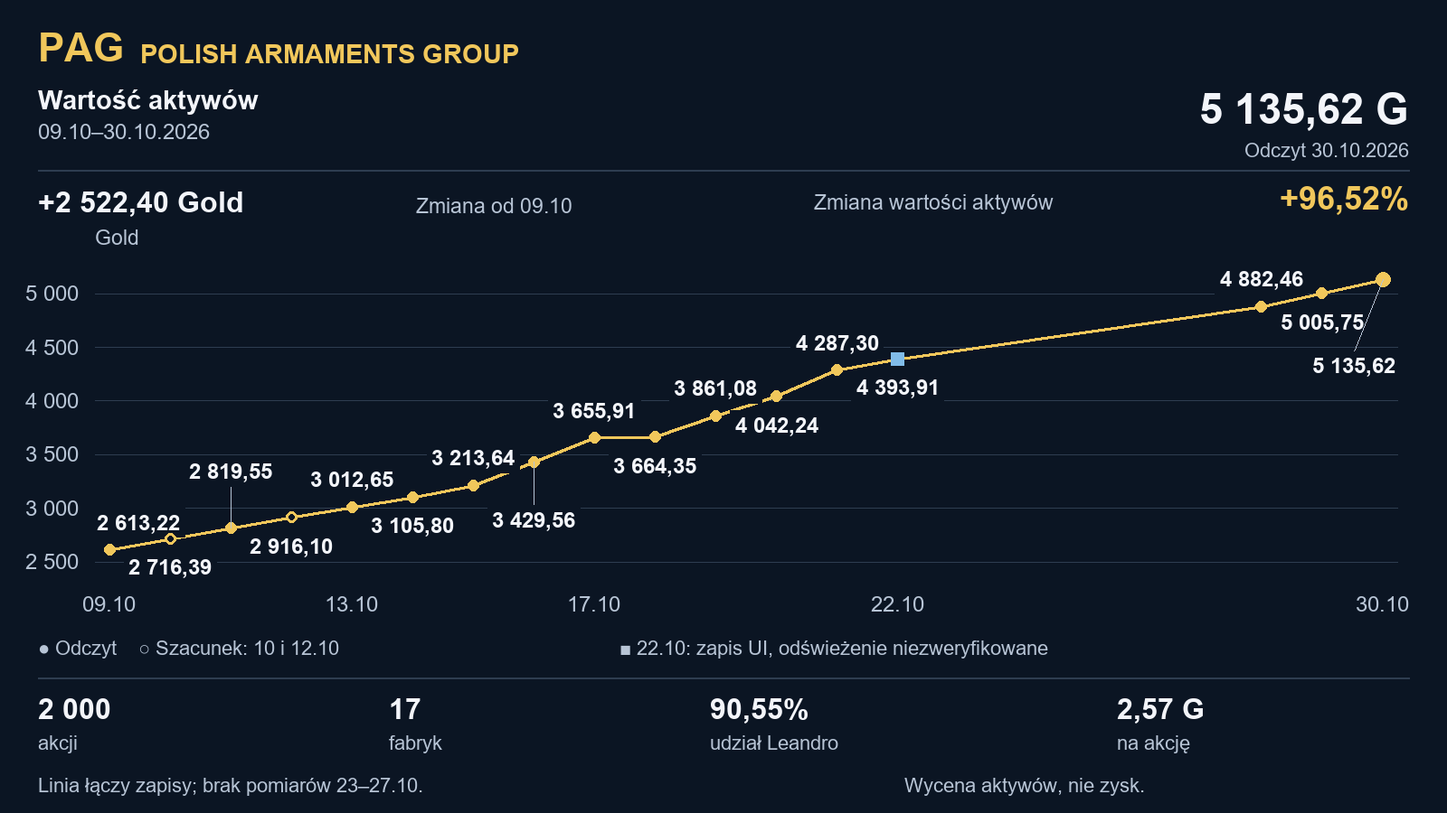
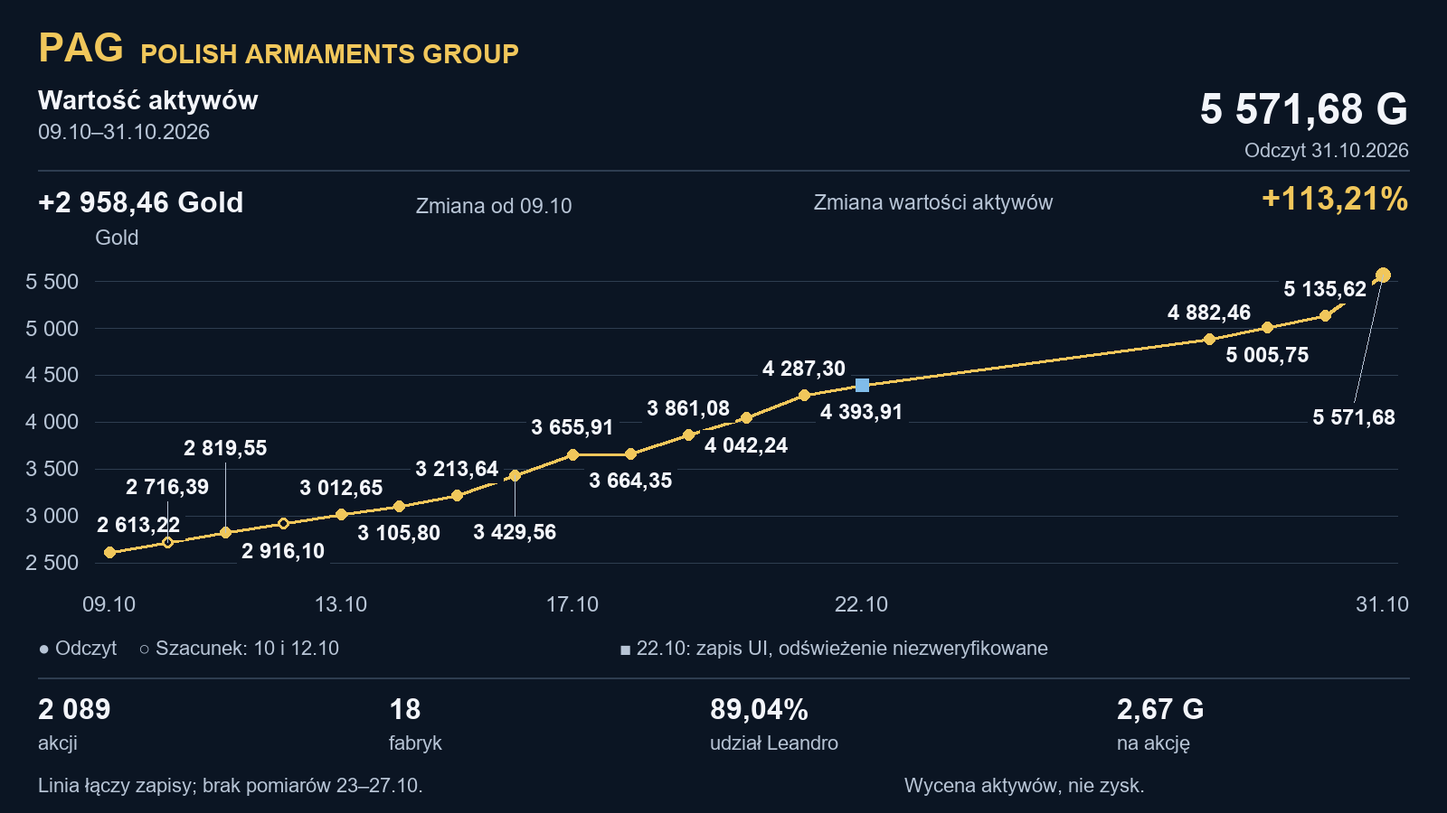
Update PAG chart with 31 October measurement

diff --git a/pag-chart.html b/pag-chart.html
@@ -1805,7 +1805,7 @@ html&gt;body{padding:0}&lt;/style&gt;
 &lt;script src=&quot;https://cdn.jsdelivr.net/npm/d3@7.9.0/dist/d3.min.js&quot;&gt;&lt;/script&gt;
 &lt;script&gt;
 (()=&gt;{
-const history={&quot;company&quot;: &quot;Polish Armaments Group&quot;, &quot;source_url&quot;: &quot;https://vexa.e-sim.org/stockCompany.html?id=45&quot;, &quot;timezone&quot;: &quot;Europe/Warsaw&quot;, &quot;definitions&quot;: {&quot;value_gold&quot;: &quot;Szacowana wartość spółki według Vexa; nie jest zyskiem ani kapitalizacją rynkową.&quot;, &quot;book_value_per_share_gold&quot;: &quot;value_gold / shares; obliczenie, nie cena transakcyjna.&quot;, &quot;factories&quot;: &quot;Ogólnie firm na stronie spółki.&quot;, &quot;leandro_percent&quot;: &quot;100 * leandro_shares / shares&quot;, &quot;status&quot;: &quot;confirmed_in_user_report: odczyt oznaczony jako potwierdzony w raporcie użytkownika; bez niezależnej weryfikacji. estimated_missing_day: szacunek brakującego dnia, nie pomiar. saved_ui_refresh_unverified: zapis UI, odświeżenie wyceny niezweryfikowane.&quot;}, &quot;observations&quot;: [{&quot;date&quot;: &quot;2026-10-09&quot;, &quot;observed_at&quot;: null, &quot;value_gold&quot;: 2613.22, &quot;shares&quot;: null, &quot;leandro_shares&quot;: null, &quot;leandro_percent_reported&quot;: null, &quot;factories&quot;: null, &quot;shareholders&quot;: null, &quot;reported_book_value_per_share_gold&quot;: null, &quot;status&quot;: &quot;confirmed_in_user_report&quot;, &quot;source&quot;: &quot;Raport graficzny przesłany przez użytkownika 2026-10-29&quot;, &quot;source_url&quot;: &quot;https://github.com/piotrzdrenka-droid/pag-chart/blob/main/pag-chart.png?raw=true&quot;, &quot;source_blob_sha&quot;: &quot;903d835cdb9e62c0f7de1f23d691339e15198607&quot;}, {&quot;date&quot;: &quot;2026-10-10&quot;, &quot;observed_at&quot;: null, &quot;value_gold&quot;: 2716.39, &quot;shares&quot;: null, &quot;leandro_shares&quot;: null, &quot;leandro_percent_reported&quot;: null, &quot;factories&quot;: null, &quot;shareholders&quot;: null, &quot;reported_book_value_per_share_gold&quot;: null, &quot;status&quot;: &quot;estimated_missing_day&quot;, &quot;source&quot;: &quot;Raport graficzny przesłany przez użytkownika 2026-10-29&quot;, &quot;source_url&quot;: &quot;https://github.com/piotrzdrenka-droid/pag-chart/blob/main/pag-chart.png?raw=true&quot;, &quot;source_blob_sha&quot;: &quot;903d835cdb9e62c0f7de1f23d691339e15198607&quot;}, {&quot;date&quot;: &quot;2026-10-11&quot;, &quot;observed_at&quot;: null, &quot;value_gold&quot;: 2819.55, &quot;shares&quot;: 1572, &quot;leandro_shares&quot;: 1490, &quot;leandro_percent_reported&quot;: 94.78, &quot;factories&quot;: 14, &quot;reported_book_value_per_share_gold&quot;: null, &quot;source&quot;: &quot;Dane historyczne przekazane przez użytkownika 2026-10-28&quot;, &quot;corroborating_sources&quot;: [&quot;Raport ze zdjęcia przekazany 2026-10-29&quot;], &quot;status&quot;: &quot;confirmed&quot;}, {&quot;date&quot;: &quot;2026-10-12&quot;, &quot;observed_at&quot;: null, &quot;value_gold&quot;: 2916.1, &quot;shares&quot;: null, &quot;leandro_shares&quot;: null, &quot;leandro_percent_reported&quot;: null, &quot;factories&quot;: null, &quot;shareholders&quot;: null, &quot;reported_book_value_per_share_gold&quot;: null, &quot;status&quot;: &quot;estimated_missing_day&quot;, &quot;source&quot;: &quot;Raport graficzny przesłany przez użytkownika 2026-10-29&quot;, &quot;source_url&quot;: &quot;https://github.com/piotrzdrenka-droid/pag-chart/blob/main/pag-chart.png?raw=true&quot;, &quot;source_blob_sha&quot;: &quot;903d835cdb9e62c0f7de1f23d691339e15198607&quot;}, {&quot;date&quot;: &quot;2026-10-13&quot;, &quot;observed_at&quot;: null, &quot;value_gold&quot;: 3012.65, &quot;shares&quot;: null, &quot;leandro_shares&quot;: null, &quot;leandro_percent_reported&quot;: null, &quot;factories&quot;: null, &quot;shareholders&quot;: null, &quot;reported_book_value_per_share_gold&quot;: null, &quot;status&quot;: &quot;confirmed_in_user_report&quot;, &quot;source&quot;: &quot;Raport graficzny przesłany przez użytkownika 2026-10-29&quot;, &quot;source_url&quot;: &quot;https://github.com/piotrzdrenka-droid/pag-chart/blob/main/pag-chart.png?raw=true&quot;, &quot;source_blob_sha&quot;: &quot;903d835cdb9e62c0f7de1f23d691339e15198607&quot;}, {&quot;date&quot;: &quot;2026-10-14&quot;, &quot;observed_at&quot;: null, &quot;value_gold&quot;: 3105.8, &quot;shares&quot;: null, &quot;leandro_shares&quot;: null, &quot;leandro_percent_reported&quot;: null, &quot;factories&quot;: null, &quot;shareholders&quot;: null, &quot;reported_book_value_per_share_gold&quot;: null, &quot;status&quot;: &quot;confirmed_in_user_report&quot;, &quot;source&quot;: &quot;Raport graficzny przesłany przez użytkownika 2026-10-29&quot;, &quot;source_url&quot;: &quot;https://github.com/piotrzdrenka-droid/pag-chart/blob/main/pag-chart.png?raw=true&quot;, &quot;source_blob_sha&quot;: &quot;903d835cdb9e62c0f7de1f23d691339e15198607&quot;}, {&quot;date&quot;: &quot;2026-10-15&quot;, &quot;observed_at&quot;: null, &quot;value_gold&quot;: 3213.64, &quot;shares&quot;: null, &quot;leandro_shares&quot;: null, &quot;leandro_percent_reported&quot;: null, &quot;factories&quot;: null, &quot;shareholders&quot;: null, &quot;reported_book_value_per_share_gold&quot;: null, &quot;status&quot;: &quot;confirmed_in_user_report&quot;, &quot;source&quot;: &quot;Raport graficzny przesłany przez użytkownika 2026-10-29&quot;, &quot;source_url&quot;: &quot;https://github.com/piotrzdrenka-droid/pag-chart/blob/main/pag-chart.png?raw=true&quot;, &quot;source_blob_sha&quot;: &quot;903d835cdb9e62c0f7de1f23d691339e15198607&quot;}, {&quot;date&quot;: &quot;2026-10-16&quot;, &quot;observed_at&quot;: null, &quot;value_gold&quot;: 3429.56, &quot;shares&quot;: null, &quot;leandro_shares&quot;: null, &quot;leandro_percent_reported&quot;: null, &quot;factories&quot;: null, &quot;shareholders&quot;: null, &quot;reported_book_value_per_share_gold&quot;: null, &quot;status&quot;: &quot;confirmed_in_user_report&quot;, &quot;source&quot;: &quot;Raport graficzny przesłany przez użytkownika 2026-10-29&quot;, &quot;source_url&quot;: &quot;https://github.com/piotrzdrenka-droid/pag-chart/blob/main/pag-chart.png?raw=true&quot;, &quot;source_blob_sha&quot;: &quot;903d835cdb9e62c0f7de1f23d691339e15198607&quot;}, {&quot;date&quot;: &quot;2026-10-17&quot;, &quot;observed_at&quot;: null, &quot;value_gold&quot;: 3655.91, &quot;shares&quot;: null, &quot;leandro_shares&quot;: null, &quot;leandro_percent_reported&quot;: null, &quot;factories&quot;: null, &quot;shareholders&quot;: null, &quot;reported_book_value_per_share_gold&quot;: null, &quot;status&quot;: &quot;confirmed_in_user_report&quot;, &quot;source&quot;: &quot;Raport graficzny przesłany przez użytkownika 2026-10-29&quot;, &quot;source_url&quot;: &quot;https://github.com/piotrzdrenka-droid/pag-chart/blob/main/pag-chart.png?raw=true&quot;, &quot;source_blob_sha&quot;: &quot;903d835cdb9e62c0f7de1f23d691339e15198607&quot;}, {&quot;date&quot;: &quot;2026-10-18&quot;, &quot;observed_at&quot;: null, &quot;value_gold&quot;: 3664.35, &quot;shares&quot;: null, &quot;leandro_shares&quot;: null, &quot;leandro_percent_reported&quot;: null, &quot;factories&quot;: null, &quot;shareholders&quot;: null, &quot;reported_book_value_per_share_gold&quot;: null, &quot;status&quot;: &quot;confirmed_in_user_report&quot;, &quot;source&quot;: &quot;Raport graficzny przesłany przez użytkownika 2026-10-29&quot;, &quot;source_url&quot;: &quot;https://github.com/piotrzdrenka-droid/pag-chart/blob/main/pag-chart.png?raw=true&quot;, &quot;source_blob_sha&quot;: &quot;903d835cdb9e62c0f7de1f23d691339e15198607&quot;}, {&quot;date&quot;: &quot;2026-10-19&quot;, &quot;observed_at&quot;: null, &quot;value_gold&quot;: 3861.08, &quot;shares&quot;: null, &quot;leandro_shares&quot;: null, &quot;leandro_percent_reported&quot;: null, &quot;factories&quot;: null, &quot;shareholders&quot;: null, &quot;reported_book_value_per_share_gold&quot;: null, &quot;status&quot;: &quot;confirmed_in_user_report&quot;, &quot;source&quot;: &quot;Raport graficzny przesłany przez użytkownika 2026-10-29&quot;, &quot;source_url&quot;: &quot;https://github.com/piotrzdrenka-droid/pag-chart/blob/main/pag-chart.png?raw=true&quot;, &quot;source_blob_sha&quot;: &quot;903d835cdb9e62c0f7de1f23d691339e15198607&quot;}, {&quot;date&quot;: &quot;2026-10-20&quot;, &quot;observed_at&quot;: null, &quot;value_gold&quot;: 4042.24, &quot;shares&quot;: null, &quot;leandro_shares&quot;: null, &quot;leandro_percent_reported&quot;: null, &quot;factories&quot;: null, &quot;shareholders&quot;: null, &quot;reported_book_value_per_share_gold&quot;: null, &quot;status&quot;: &quot;confirmed_in_user_report&quot;, &quot;source&quot;: &quot;Raport graficzny przesłany przez użytkownika 2026-10-29&quot;, &quot;source_url&quot;: &quot;https://github.com/piotrzdrenka-droid/pag-chart/blob/main/pag-chart.png?raw=true&quot;, &quot;source_blob_sha&quot;: &quot;903d835cdb9e62c0f7de1f23d691339e15198607&quot;}, {&quot;date&quot;: &quot;2026-10-21&quot;, &quot;observed_at&quot;: null, &quot;value_gold&quot;: 4287.3, &quot;shares&quot;: null, &quot;leandro_shares&quot;: null, &quot;leandro_percent_reported&quot;: null, &quot;factories&quot;: null, &quot;shareholders&quot;: null, &quot;reported_book_value_per_share_gold&quot;: null, &quot;status&quot;: &quot;confirmed_in_user_report&quot;, &quot;source&quot;: &quot;Raport graficzny przesłany przez użytkownika 2026-10-29&quot;, &quot;source_url&quot;: &quot;https://github.com/piotrzdrenka-droid/pag-chart/blob/main/pag-chart.png?raw=true&quot;, &quot;source_blob_sha&quot;: &quot;903d835cdb9e62c0f7de1f23d691339e15198607&quot;}, {&quot;date&quot;: &quot;2026-10-22&quot;, &quot;observed_at&quot;: null, &quot;value_gold&quot;: 4393.91, &quot;shares&quot;: 1888, &quot;leandro_shares&quot;: null, &quot;leandro_percent_reported&quot;: null, &quot;factories&quot;: 16, &quot;shareholders&quot;: 9, &quot;reported_book_value_per_share_gold&quot;: 2.33, &quot;status&quot;: &quot;saved_ui_refresh_unverified&quot;, &quot;source&quot;: &quot;Raport graficzny przesłany przez użytkownika 2026-10-29&quot;, &quot;source_url&quot;: &quot;https://github.com/piotrzdrenka-droid/pag-chart/blob/main/pag-chart.png?raw=true&quot;, &quot;source_blob_sha&quot;: &quot;903d835cdb9e62c0f7de1f23d691339e15198607&quot;}, {&quot;date&quot;: &quot;2026-10-28&quot;, &quot;observed_at&quot;: &quot;2026-10-28T18:58:00Z&quot;, &quot;value_gold&quot;: 4882.46, &quot;shares&quot;: 1908, &quot;leandro_shares&quot;: 1779, &quot;leandro_percent_reported&quot;: 93.24, &quot;factories&quot;: 17, &quot;reported_book_value_per_share_gold&quot;: 2.56, &quot;source&quot;: &quot;Odczyt widocznej strony Vexa bez logowania; czas zapisu pomiaru, nie czas wyceny aktywów&quot;, &quot;status&quot;: &quot;confirmed&quot;}, {&quot;date&quot;: &quot;2026-10-29&quot;, &quot;observed_at&quot;: &quot;2026-10-29T18:12:54Z&quot;, &quot;value_gold&quot;: 5005.75, &quot;shares&quot;: 1915, &quot;leandro_shares&quot;: 1786, &quot;leandro_percent_reported&quot;: 93.26, &quot;factories&quot;: 17, &quot;shareholders&quot;: 9, &quot;reported_book_value_per_share_gold&quot;: 2.61, &quot;status&quot;: &quot;confirmed&quot;, &quot;source&quot;: &quot;Odczyt publicznej strony Vexa po wybraniu Odśwież. Serwis potwierdził: Raport został odświeżony. Czas zapisu pomiaru, nie gwarantowany czas wyceny poszczególnych aktywów.&quot;, &quot;source_url&quot;: &quot;https://vexa.e-sim.org/stockCompany.html?id=45&quot;, &quot;report_refresh_confirmed&quot;: true}, {&quot;date&quot;: &quot;2026-10-30&quot;, &quot;observed_at&quot;: &quot;2026-10-30T19:01:41Z&quot;, &quot;value_gold&quot;: 5135.62, &quot;shares&quot;: 2000, &quot;leandro_shares&quot;: 1811, &quot;leandro_percent_reported&quot;: 90.55, &quot;factories&quot;: 17, &quot;shareholders&quot;: 10, &quot;reported_book_value_per_share_gold&quot;: 2.57, &quot;status&quot;: &quot;confirmed&quot;, &quot;source&quot;: &quot;Odczyt widocznej strony Vexa. Nie wywołano odświeżenia raportu; czas odczytu nie potwierdza czasu wyceny aktywów.&quot;, &quot;source_url&quot;: &quot;https://vexa.e-sim.org/stockCompany.html?id=45&quot;, &quot;report_refresh_confirmed&quot;: false}], &quot;events&quot;: [{&quot;date&quot;: &quot;2026-10-13&quot;, &quot;type&quot;: &quot;dividend&quot;, &quot;amount_gold&quot;: 200, &quot;source&quot;: &quot;Raport graficzny użytkownika&quot;, &quot;notes&quot;: &quot;Wypłata według raportu. Nie doliczono do wartości aktywów.&quot;}]};
+const history={&quot;company&quot;: &quot;Polish Armaments Group&quot;, &quot;source_url&quot;: &quot;https://vexa.e-sim.org/stockCompany.html?id=45&quot;, &quot;timezone&quot;: &quot;Europe/Warsaw&quot;, &quot;definitions&quot;: {&quot;value_gold&quot;: &quot;Szacowana wartość spółki według Vexa; nie jest zyskiem ani kapitalizacją rynkową.&quot;, &quot;book_value_per_share_gold&quot;: &quot;value_gold / shares; obliczenie, nie cena transakcyjna.&quot;, &quot;factories&quot;: &quot;Ogólnie firm na stronie spółki.&quot;, &quot;leandro_percent&quot;: &quot;100 * leandro_shares / shares&quot;, &quot;status&quot;: &quot;confirmed_in_user_report: odczyt oznaczony jako potwierdzony w raporcie użytkownika; bez niezależnej weryfikacji. estimated_missing_day: szacunek brakującego dnia, nie pomiar. saved_ui_refresh_unverified: zapis UI, odświeżenie wyceny niezweryfikowane.&quot;}, &quot;observations&quot;: [{&quot;date&quot;: &quot;2026-10-09&quot;, &quot;observed_at&quot;: null, &quot;value_gold&quot;: 2613.22, &quot;shares&quot;: null, &quot;leandro_shares&quot;: null, &quot;leandro_percent_reported&quot;: null, &quot;factories&quot;: null, &quot;shareholders&quot;: null, &quot;reported_book_value_per_share_gold&quot;: null, &quot;status&quot;: &quot;confirmed_in_user_report&quot;, &quot;source&quot;: &quot;Raport graficzny przesłany przez użytkownika 2026-10-29&quot;, &quot;source_url&quot;: &quot;https://github.com/piotrzdrenka-droid/pag-chart/blob/main/pag-chart.png?raw=true&quot;, &quot;source_blob_sha&quot;: &quot;903d835cdb9e62c0f7de1f23d691339e15198607&quot;}, {&quot;date&quot;: &quot;2026-10-10&quot;, &quot;observed_at&quot;: null, &quot;value_gold&quot;: 2716.39, &quot;shares&quot;: null, &quot;leandro_shares&quot;: null, &quot;leandro_percent_reported&quot;: null, &quot;factories&quot;: null, &quot;shareholders&quot;: null, &quot;reported_book_value_per_share_gold&quot;: null, &quot;status&quot;: &quot;estimated_missing_day&quot;, &quot;source&quot;: &quot;Raport graficzny przesłany przez użytkownika 2026-10-29&quot;, &quot;source_url&quot;: &quot;https://github.com/piotrzdrenka-droid/pag-chart/blob/main/pag-chart.png?raw=true&quot;, &quot;source_blob_sha&quot;: &quot;903d835cdb9e62c0f7de1f23d691339e15198607&quot;}, {&quot;date&quot;: &quot;2026-10-11&quot;, &quot;observed_at&quot;: null, &quot;value_gold&quot;: 2819.55, &quot;shares&quot;: 1572, &quot;leandro_shares&quot;: 1490, &quot;leandro_percent_reported&quot;: 94.78, &quot;factories&quot;: 14, &quot;reported_book_value_per_share_gold&quot;: null, &quot;source&quot;: &quot;Dane historyczne przekazane przez użytkownika 2026-10-28&quot;, &quot;corroborating_sources&quot;: [&quot;Raport ze zdjęcia przekazany 2026-10-29&quot;], &quot;status&quot;: &quot;confirmed&quot;}, {&quot;date&quot;: &quot;2026-10-12&quot;, &quot;observed_at&quot;: null, &quot;value_gold&quot;: 2916.1, &quot;shares&quot;: null, &quot;leandro_shares&quot;: null, &quot;leandro_percent_reported&quot;: null, &quot;factories&quot;: null, &quot;shareholders&quot;: null, &quot;reported_book_value_per_share_gold&quot;: null, &quot;status&quot;: &quot;estimated_missing_day&quot;, &quot;source&quot;: &quot;Raport graficzny przesłany przez użytkownika 2026-10-29&quot;, &quot;source_url&quot;: &quot;https://github.com/piotrzdrenka-droid/pag-chart/blob/main/pag-chart.png?raw=true&quot;, &quot;source_blob_sha&quot;: &quot;903d835cdb9e62c0f7de1f23d691339e15198607&quot;}, {&quot;date&quot;: &quot;2026-10-13&quot;, &quot;observed_at&quot;: null, &quot;value_gold&quot;: 3012.65, &quot;shares&quot;: null, &quot;leandro_shares&quot;: null, &quot;leandro_percent_reported&quot;: null, &quot;factories&quot;: null, &quot;shareholders&quot;: null, &quot;reported_book_value_per_share_gold&quot;: null, &quot;status&quot;: &quot;confirmed_in_user_report&quot;, &quot;source&quot;: &quot;Raport graficzny przesłany przez użytkownika 2026-10-29&quot;, &quot;source_url&quot;: &quot;https://github.com/piotrzdrenka-droid/pag-chart/blob/main/pag-chart.png?raw=true&quot;, &quot;source_blob_sha&quot;: &quot;903d835cdb9e62c0f7de1f23d691339e15198607&quot;}, {&quot;date&quot;: &quot;2026-10-14&quot;, &quot;observed_at&quot;: null, &quot;value_gold&quot;: 3105.8, &quot;shares&quot;: null, &quot;leandro_shares&quot;: null, &quot;leandro_percent_reported&quot;: null, &quot;factories&quot;: null, &quot;shareholders&quot;: null, &quot;reported_book_value_per_share_gold&quot;: null, &quot;status&quot;: &quot;confirmed_in_user_report&quot;, &quot;source&quot;: &quot;Raport graficzny przesłany przez użytkownika 2026-10-29&quot;, &quot;source_url&quot;: &quot;https://github.com/piotrzdrenka-droid/pag-chart/blob/main/pag-chart.png?raw=true&quot;, &quot;source_blob_sha&quot;: &quot;903d835cdb9e62c0f7de1f23d691339e15198607&quot;}, {&quot;date&quot;: &quot;2026-10-15&quot;, &quot;observed_at&quot;: null, &quot;value_gold&quot;: 3213.64, &quot;shares&quot;: null, &quot;leandro_shares&quot;: null, &quot;leandro_percent_reported&quot;: null, &quot;factories&quot;: null, &quot;shareholders&quot;: null, &quot;reported_book_value_per_share_gold&quot;: null, &quot;status&quot;: &quot;confirmed_in_user_report&quot;, &quot;source&quot;: &quot;Raport graficzny przesłany przez użytkownika 2026-10-29&quot;, &quot;source_url&quot;: &quot;https://github.com/piotrzdrenka-droid/pag-chart/blob/main/pag-chart.png?raw=true&quot;, &quot;source_blob_sha&quot;: &quot;903d835cdb9e62c0f7de1f23d691339e15198607&quot;}, {&quot;date&quot;: &quot;2026-10-16&quot;, &quot;observed_at&quot;: null, &quot;value_gold&quot;: 3429.56, &quot;shares&quot;: null, &quot;leandro_shares&quot;: null, &quot;leandro_percent_reported&quot;: null, &quot;factories&quot;: null, &quot;shareholders&quot;: null, &quot;reported_book_value_per_share_gold&quot;: null, &quot;status&quot;: &quot;confirmed_in_user_report&quot;, &quot;source&quot;: &quot;Raport graficzny przesłany przez użytkownika 2026-10-29&quot;, &quot;source_url&quot;: &quot;https://github.com/piotrzdrenka-droid/pag-chart/blob/main/pag-chart.png?raw=true&quot;, &quot;source_blob_sha&quot;: &quot;903d835cdb9e62c0f7de1f23d691339e15198607&quot;}, {&quot;date&quot;: &quot;2026-10-17&quot;, &quot;observed_at&quot;: null, &quot;value_gold&quot;: 3655.91, &quot;shares&quot;: null, &quot;leandro_shares&quot;: null, &quot;leandro_percent_reported&quot;: null, &quot;factories&quot;: null, &quot;shareholders&quot;: null, &quot;reported_book_value_per_share_gold&quot;: null, &quot;status&quot;: &quot;confirmed_in_user_report&quot;, &quot;source&quot;: &quot;Raport graficzny przesłany przez użytkownika 2026-10-29&quot;, &quot;source_url&quot;: &quot;https://github.com/piotrzdrenka-droid/pag-chart/blob/main/pag-chart.png?raw=true&quot;, &quot;source_blob_sha&quot;: &quot;903d835cdb9e62c0f7de1f23d691339e15198607&quot;}, {&quot;date&quot;: &quot;2026-10-18&quot;, &quot;observed_at&quot;: null, &quot;value_gold&quot;: 3664.35, &quot;shares&quot;: null, &quot;leandro_shares&quot;: null, &quot;leandro_percent_reported&quot;: null, &quot;factories&quot;: null, &quot;shareholders&quot;: null, &quot;reported_book_value_per_share_gold&quot;: null, &quot;status&quot;: &quot;confirmed_in_user_report&quot;, &quot;source&quot;: &quot;Raport graficzny przesłany przez użytkownika 2026-10-29&quot;, &quot;source_url&quot;: &quot;https://github.com/piotrzdrenka-droid/pag-chart/blob/main/pag-chart.png?raw=true&quot;, &quot;source_blob_sha&quot;: &quot;903d835cdb9e62c0f7de1f23d691339e15198607&quot;}, {&quot;date&quot;: &quot;2026-10-19&quot;, &quot;observed_at&quot;: null, &quot;value_gold&quot;: 3861.08, &quot;shares&quot;: null, &quot;leandro_shares&quot;: null, &quot;leandro_percent_reported&quot;: null, &quot;factories&quot;: null, &quot;shareholders&quot;: null, &quot;reported_book_value_per_share_gold&quot;: null, &quot;status&quot;: &quot;confirmed_in_user_report&quot;, &quot;source&quot;: &quot;Raport graficzny przesłany przez użytkownika 2026-10-29&quot;, &quot;source_url&quot;: &quot;https://github.com/piotrzdrenka-droid/pag-chart/blob/main/pag-chart.png?raw=true&quot;, &quot;source_blob_sha&quot;: &quot;903d835cdb9e62c0f7de1f23d691339e15198607&quot;}, {&quot;date&quot;: &quot;2026-10-20&quot;, &quot;observed_at&quot;: null, &quot;value_gold&quot;: 4042.24, &quot;shares&quot;: null, &quot;leandro_shares&quot;: null, &quot;leandro_percent_reported&quot;: null, &quot;factories&quot;: null, &quot;shareholders&quot;: null, &quot;reported_book_value_per_share_gold&quot;: null, &quot;status&quot;: &quot;confirmed_in_user_report&quot;, &quot;source&quot;: &quot;Raport graficzny przesłany przez użytkownika 2026-10-29&quot;, &quot;source_url&quot;: &quot;https://github.com/piotrzdrenka-droid/pag-chart/blob/main/pag-chart.png?raw=true&quot;, &quot;source_blob_sha&quot;: &quot;903d835cdb9e62c0f7de1f23d691339e15198607&quot;}, {&quot;date&quot;: &quot;2026-10-21&quot;, &quot;observed_at&quot;: null, &quot;value_gold&quot;: 4287.3, &quot;shares&quot;: null, &quot;leandro_shares&quot;: null, &quot;leandro_percent_reported&quot;: null, &quot;factories&quot;: null, &quot;shareholders&quot;: null, &quot;reported_book_value_per_share_gold&quot;: null, &quot;status&quot;: &quot;confirmed_in_user_report&quot;, &quot;source&quot;: &quot;Raport graficzny przesłany przez użytkownika 2026-10-29&quot;, &quot;source_url&quot;: &quot;https://github.com/piotrzdrenka-droid/pag-chart/blob/main/pag-chart.png?raw=true&quot;, &quot;source_blob_sha&quot;: &quot;903d835cdb9e62c0f7de1f23d691339e15198607&quot;}, {&quot;date&quot;: &quot;2026-10-22&quot;, &quot;observed_at&quot;: null, &quot;value_gold&quot;: 4393.91, &quot;shares&quot;: 1888, &quot;leandro_shares&quot;: null, &quot;leandro_percent_reported&quot;: null, &quot;factories&quot;: 16, &quot;shareholders&quot;: 9, &quot;reported_book_value_per_share_gold&quot;: 2.33, &quot;status&quot;: &quot;saved_ui_refresh_unverified&quot;, &quot;source&quot;: &quot;Raport graficzny przesłany przez użytkownika 2026-10-29&quot;, &quot;source_url&quot;: &quot;https://github.com/piotrzdrenka-droid/pag-chart/blob/main/pag-chart.png?raw=true&quot;, &quot;source_blob_sha&quot;: &quot;903d835cdb9e62c0f7de1f23d691339e15198607&quot;}, {&quot;date&quot;: &quot;2026-10-28&quot;, &quot;observed_at&quot;: &quot;2026-10-28T18:58:00Z&quot;, &quot;value_gold&quot;: 4882.46, &quot;shares&quot;: 1908, &quot;leandro_shares&quot;: 1779, &quot;leandro_percent_reported&quot;: 93.24, &quot;factories&quot;: 17, &quot;reported_book_value_per_share_gold&quot;: 2.56, &quot;source&quot;: &quot;Odczyt widocznej strony Vexa bez logowania; czas zapisu pomiaru, nie czas wyceny aktywów&quot;, &quot;status&quot;: &quot;confirmed&quot;}, {&quot;date&quot;: &quot;2026-10-29&quot;, &quot;observed_at&quot;: &quot;2026-10-29T18:12:54Z&quot;, &quot;value_gold&quot;: 5005.75, &quot;shares&quot;: 1915, &quot;leandro_shares&quot;: 1786, &quot;leandro_percent_reported&quot;: 93.26, &quot;factories&quot;: 17, &quot;shareholders&quot;: 9, &quot;reported_book_value_per_share_gold&quot;: 2.61, &quot;status&quot;: &quot;confirmed&quot;, &quot;source&quot;: &quot;Odczyt publicznej strony Vexa po wybraniu Odśwież. Serwis potwierdził: Raport został odświeżony. Czas zapisu pomiaru, nie gwarantowany czas wyceny poszczególnych aktywów.&quot;, &quot;source_url&quot;: &quot;https://vexa.e-sim.org/stockCompany.html?id=45&quot;, &quot;report_refresh_confirmed&quot;: true}, {&quot;date&quot;: &quot;2026-10-30&quot;, &quot;observed_at&quot;: &quot;2026-10-30T19:01:41Z&quot;, &quot;value_gold&quot;: 5135.62, &quot;shares&quot;: 2000, &quot;leandro_shares&quot;: 1811, &quot;leandro_percent_reported&quot;: 90.55, &quot;factories&quot;: 17, &quot;shareholders&quot;: 10, &quot;reported_book_value_per_share_gold&quot;: 2.57, &quot;status&quot;: &quot;confirmed&quot;, &quot;source&quot;: &quot;Odczyt widocznej strony Vexa. Nie wywołano odświeżenia raportu; czas odczytu nie potwierdza czasu wyceny aktywów.&quot;, &quot;source_url&quot;: &quot;https://vexa.e-sim.org/stockCompany.html?id=45&quot;, &quot;report_refresh_confirmed&quot;: false}, {&quot;date&quot;: &quot;2026-10-31&quot;, &quot;observed_at&quot;: &quot;2026-10-31T17:06:35Z&quot;, &quot;value_gold&quot;: 5571.68, &quot;shares&quot;: 2089, &quot;leandro_shares&quot;: 1860, &quot;leandro_percent_reported&quot;: 89.04, &quot;factories&quot;: 18, &quot;shareholders&quot;: 11, &quot;reported_book_value_per_share_gold&quot;: 2.67, &quot;status&quot;: &quot;confirmed&quot;, &quot;source&quot;: &quot;Odczyt widocznej strony Vexa; czas odczytu nie potwierdza czasu wyceny aktywów.&quot;, &quot;source_url&quot;: &quot;https://vexa.e-sim.org/stockCompany.html?id=45&quot;, &quot;report_refresh_confirmed&quot;: false}], &quot;events&quot;: [{&quot;date&quot;: &quot;2026-10-13&quot;, &quot;type&quot;: &quot;dividend&quot;, &quot;amount_gold&quot;: 200, &quot;source&quot;: &quot;Raport graficzny użytkownika&quot;, &quot;notes&quot;: &quot;Wypłata według raportu. Nie doliczono do wartości aktywów.&quot;}]};
 const root=document.getElementById(&#x27;pag-growth&#x27;),select=root.querySelector(&#x27;select&#x27;),box=root.querySelector(&#x27;#pag-plot&#x27;);
 const data=history.observations.map(d=&gt;({...d,x:new Date(d.date+&#x27;T12:00:00Z&#x27;),ownership:d.leandro_shares!=null&amp;&amp;d.shares&gt;0?100*d.leandro_shares/d.shares:null,perShare:d.value_gold!=null&amp;&amp;d.shares&gt;0?d.value_gold/d.shares:null}));
 const metrics={value_gold:[&#x27;Wartość spółki&#x27;,&#x27;Gold&#x27;,2],shares:[&#x27;Wyemitowane akcje&#x27;,&#x27;akcje&#x27;,0],leandro_shares:[&#x27;Akcje Leandro Daniels&#x27;,&#x27;akcje&#x27;,0],ownership:[&#x27;Udział Leandro&#x27;,&#x27;%&#x27;,2],perShare:[&#x27;Wartość aktywów na akcję&#x27;,&#x27;Gold/akcję&#x27;,4],factories:[&#x27;Fabryki&#x27;,&#x27;fabryki&#x27;,0]};

diff --git a/pag-growth.html b/pag-growth.html
@@ -13,7 +13,7 @@
 <script src="https://cdn.jsdelivr.net/npm/d3@7.9.0/dist/d3.min.js"></script>
 <script>
 (()=>{
-const history={"company": "Polish Armaments Group", "source_url": "https://vexa.e-sim.org/stockCompany.html?id=45", "timezone": "Europe/Warsaw", "definitions": {"value_gold": "Szacowana wartość spółki według Vexa; nie jest zyskiem ani kapitalizacją rynkową.", "book_value_per_share_gold": "value_gold / shares; obliczenie, nie cena transakcyjna.", "factories": "Ogólnie firm na stronie spółki.", "leandro_percent": "100 * leandro_shares / shares", "status": "confirmed_in_user_report: odczyt oznaczony jako potwierdzony w raporcie użytkownika; bez niezależnej weryfikacji. estimated_missing_day: szacunek brakującego dnia, nie pomiar. saved_ui_refresh_unverified: zapis UI, odświeżenie wyceny niezweryfikowane."}, "observations": [{"date": "2026-10-09", "observed_at": null, "value_gold": 2613.22, "shares": null, "leandro_shares": null, "leandro_percent_reported": null, "factories": null, "shareholders": null, "reported_book_value_per_share_gold": null, "status": "confirmed_in_user_report", "source": "Raport graficzny przesłany przez użytkownika 2026-10-29", "source_url": "https://github.com/piotrzdrenka-droid/pag-chart/blob/main/pag-chart.png?raw=true", "source_blob_sha": "903d835cdb9e62c0f7de1f23d691339e15198607"}, {"date": "2026-10-10", "observed_at": null, "value_gold": 2716.39, "shares": null, "leandro_shares": null, "leandro_percent_reported": null, "factories": null, "shareholders": null, "reported_book_value_per_share_gold": null, "status": "estimated_missing_day", "source": "Raport graficzny przesłany przez użytkownika 2026-10-29", "source_url": "https://github.com/piotrzdrenka-droid/pag-chart/blob/main/pag-chart.png?raw=true", "source_blob_sha": "903d835cdb9e62c0f7de1f23d691339e15198607"}, {"date": "2026-10-11", "observed_at": null, "value_gold": 2819.55, "shares": 1572, "leandro_shares": 1490, "leandro_percent_reported": 94.78, "factories": 14, "reported_book_value_per_share_gold": null, "source": "Dane historyczne przekazane przez użytkownika 2026-10-28", "corroborating_sources": ["Raport ze zdjęcia przekazany 2026-10-29"], "status": "confirmed"}, {"date": "2026-10-12", "observed_at": null, "value_gold": 2916.1, "shares": null, "leandro_shares": null, "leandro_percent_reported": null, "factories": null, "shareholders": null, "reported_book_value_per_share_gold": null, "status": "estimated_missing_day", "source": "Raport graficzny przesłany przez użytkownika 2026-10-29", "source_url": "https://github.com/piotrzdrenka-droid/pag-chart/blob/main/pag-chart.png?raw=true", "source_blob_sha": "903d835cdb9e62c0f7de1f23d691339e15198607"}, {"date": "2026-10-13", "observed_at": null, "value_gold": 3012.65, "shares": null, "leandro_shares": null, "leandro_percent_reported": null, "factories": null, "shareholders": null, "reported_book_value_per_share_gold": null, "status": "confirmed_in_user_report", "source": "Raport graficzny przesłany przez użytkownika 2026-10-29", "source_url": "https://github.com/piotrzdrenka-droid/pag-chart/blob/main/pag-chart.png?raw=true", "source_blob_sha": "903d835cdb9e62c0f7de1f23d691339e15198607"}, {"date": "2026-10-14", "observed_at": null, "value_gold": 3105.8, "shares": null, "leandro_shares": null, "leandro_percent_reported": null, "factories": null, "shareholders": null, "reported_book_value_per_share_gold": null, "status": "confirmed_in_user_report", "source": "Raport graficzny przesłany przez użytkownika 2026-10-29", "source_url": "https://github.com/piotrzdrenka-droid/pag-chart/blob/main/pag-chart.png?raw=true", "source_blob_sha": "903d835cdb9e62c0f7de1f23d691339e15198607"}, {"date": "2026-10-15", "observed_at": null, "value_gold": 3213.64, "shares": null, "leandro_shares": null, "leandro_percent_reported": null, "factories": null, "shareholders": null, "reported_book_value_per_share_gold": null, "status": "confirmed_in_user_report", "source": "Raport graficzny przesłany przez użytkownika 2026-10-29", "source_url": "https://github.com/piotrzdrenka-droid/pag-chart/blob/main/pag-chart.png?raw=true", "source_blob_sha": "903d835cdb9e62c0f7de1f23d691339e15198607"}, {"date": "2026-10-16", "observed_at": null, "value_gold": 3429.56, "shares": null, "leandro_shares": null, "leandro_percent_reported": null, "factories": null, "shareholders": null, "reported_book_value_per_share_gold": null, "status": "confirmed_in_user_report", "source": "Raport graficzny przesłany przez użytkownika 2026-10-29", "source_url": "https://github.com/piotrzdrenka-droid/pag-chart/blob/main/pag-chart.png?raw=true", "source_blob_sha": "903d835cdb9e62c0f7de1f23d691339e15198607"}, {"date": "2026-10-17", "observed_at": null, "value_gold": 3655.91, "shares": null, "leandro_shares": null, "leandro_percent_reported": null, "factories": null, "shareholders": null, "reported_book_value_per_share_gold": null, "status": "confirmed_in_user_report", "source": "Raport graficzny przesłany przez użytkownika 2026-10-29", "source_url": "https://github.com/piotrzdrenka-droid/pag-chart/blob/main/pag-chart.png?raw=true", "source_blob_sha": "903d835cdb9e62c0f7de1f23d691339e15198607"}, {"date": "2026-10-18", "observed_at": null, "value_gold": 3664.35, "shares": null, "leandro_shares": null, "leandro_percent_reported": null, "factories": null, "shareholders": null, "reported_book_value_per_share_gold": null, "status": "confirmed_in_user_report", "source": "Raport graficzny przesłany przez użytkownika 2026-10-29", "source_url": "https://github.com/piotrzdrenka-droid/pag-chart/blob/main/pag-chart.png?raw=true", "source_blob_sha": "903d835cdb9e62c0f7de1f23d691339e15198607"}, {"date": "2026-10-19", "observed_at": null, "value_gold": 3861.08, "shares": null, "leandro_shares": null, "leandro_percent_reported": null, "factories": null, "shareholders": null, "reported_book_value_per_share_gold": null, "status": "confirmed_in_user_report", "source": "Raport graficzny przesłany przez użytkownika 2026-10-29", "source_url": "https://github.com/piotrzdrenka-droid/pag-chart/blob/main/pag-chart.png?raw=true", "source_blob_sha": "903d835cdb9e62c0f7de1f23d691339e15198607"}, {"date": "2026-10-20", "observed_at": null, "value_gold": 4042.24, "shares": null, "leandro_shares": null, "leandro_percent_reported": null, "factories": null, "shareholders": null, "reported_book_value_per_share_gold": null, "status": "confirmed_in_user_report", "source": "Raport graficzny przesłany przez użytkownika 2026-10-29", "source_url": "https://github.com/piotrzdrenka-droid/pag-chart/blob/main/pag-chart.png?raw=true", "source_blob_sha": "903d835cdb9e62c0f7de1f23d691339e15198607"}, {"date": "2026-10-21", "observed_at": null, "value_gold": 4287.3, "shares": null, "leandro_shares": null, "leandro_percent_reported": null, "factories": null, "shareholders": null, "reported_book_value_per_share_gold": null, "status": "confirmed_in_user_report", "source": "Raport graficzny przesłany przez użytkownika 2026-10-29", "source_url": "https://github.com/piotrzdrenka-droid/pag-chart/blob/main/pag-chart.png?raw=true", "source_blob_sha": "903d835cdb9e62c0f7de1f23d691339e15198607"}, {"date": "2026-10-22", "observed_at": null, "value_gold": 4393.91, "shares": 1888, "leandro_shares": null, "leandro_percent_reported": null, "factories": 16, "shareholders": 9, "reported_book_value_per_share_gold": 2.33, "status": "saved_ui_refresh_unverified", "source": "Raport graficzny przesłany przez użytkownika 2026-10-29", "source_url": "https://github.com/piotrzdrenka-droid/pag-chart/blob/main/pag-chart.png?raw=true", "source_blob_sha": "903d835cdb9e62c0f7de1f23d691339e15198607"}, {"date": "2026-10-28", "observed_at": "2026-10-28T18:58:00Z", "value_gold": 4882.46, "shares": 1908, "leandro_shares": 1779, "leandro_percent_reported": 93.24, "factories": 17, "reported_book_value_per_share_gold": 2.56, "source": "Odczyt widocznej strony Vexa bez logowania; czas zapisu pomiaru, nie czas wyceny aktywów", "status": "confirmed"}, {"date": "2026-10-29", "observed_at": "2026-10-29T18:12:54Z", "value_gold": 5005.75, "shares": 1915, "leandro_shares": 1786, "leandro_percent_reported": 93.26, "factories": 17, "shareholders": 9, "reported_book_value_per_share_gold": 2.61, "status": "confirmed", "source": "Odczyt publicznej strony Vexa po wybraniu Odśwież. Serwis potwierdził: Raport został odświeżony. Czas zapisu pomiaru, nie gwarantowany czas wyceny poszczególnych aktywów.", "source_url": "https://vexa.e-sim.org/stockCompany.html?id=45", "report_refresh_confirmed": true}, {"date": "2026-10-30", "observed_at": "2026-10-30T19:01:41Z", "value_gold": 5135.62, "shares": 2000, "leandro_shares": 1811, "leandro_percent_reported": 90.55, "factories": 17, "shareholders": 10, "reported_book_value_per_share_gold": 2.57, "status": "confirmed", "source": "Odczyt widocznej strony Vexa. Nie wywołano odświeżenia raportu; czas odczytu nie potwierdza czasu wyceny aktywów.", "source_url": "https://vexa.e-sim.org/stockCompany.html?id=45", "report_refresh_confirmed": false}], "events": [{"date": "2026-10-13", "type": "dividend", "amount_gold": 200, "source": "Raport graficzny użytkownika", "notes": "Wypłata według raportu. Nie doliczono do wartości aktywów."}]};
+const history={"company": "Polish Armaments Group", "source_url": "https://vexa.e-sim.org/stockCompany.html?id=45", "timezone": "Europe/Warsaw", "definitions": {"value_gold": "Szacowana wartość spółki według Vexa; nie jest zyskiem ani kapitalizacją rynkową.", "book_value_per_share_gold": "value_gold / shares; obliczenie, nie cena transakcyjna.", "factories": "Ogólnie firm na stronie spółki.", "leandro_percent": "100 * leandro_shares / shares", "status": "confirmed_in_user_report: odczyt oznaczony jako potwierdzony w raporcie użytkownika; bez niezależnej weryfikacji. estimated_missing_day: szacunek brakującego dnia, nie pomiar. saved_ui_refresh_unverified: zapis UI, odświeżenie wyceny niezweryfikowane."}, "observations": [{"date": "2026-10-09", "observed_at": null, "value_gold": 2613.22, "shares": null, "leandro_shares": null, "leandro_percent_reported": null, "factories": null, "shareholders": null, "reported_book_value_per_share_gold": null, "status": "confirmed_in_user_report", "source": "Raport graficzny przesłany przez użytkownika 2026-10-29", "source_url": "https://github.com/piotrzdrenka-droid/pag-chart/blob/main/pag-chart.png?raw=true", "source_blob_sha": "903d835cdb9e62c0f7de1f23d691339e15198607"}, {"date": "2026-10-10", "observed_at": null, "value_gold": 2716.39, "shares": null, "leandro_shares": null, "leandro_percent_reported": null, "factories": null, "shareholders": null, "reported_book_value_per_share_gold": null, "status": "estimated_missing_day", "source": "Raport graficzny przesłany przez użytkownika 2026-10-29", "source_url": "https://github.com/piotrzdrenka-droid/pag-chart/blob/main/pag-chart.png?raw=true", "source_blob_sha": "903d835cdb9e62c0f7de1f23d691339e15198607"}, {"date": "2026-10-11", "observed_at": null, "value_gold": 2819.55, "shares": 1572, "leandro_shares": 1490, "leandro_percent_reported": 94.78, "factories": 14, "reported_book_value_per_share_gold": null, "source": "Dane historyczne przekazane przez użytkownika 2026-10-28", "corroborating_sources": ["Raport ze zdjęcia przekazany 2026-10-29"], "status": "confirmed"}, {"date": "2026-10-12", "observed_at": null, "value_gold": 2916.1, "shares": null, "leandro_shares": null, "leandro_percent_reported": null, "factories": null, "shareholders": null, "reported_book_value_per_share_gold": null, "status": "estimated_missing_day", "source": "Raport graficzny przesłany przez użytkownika 2026-10-29", "source_url": "https://github.com/piotrzdrenka-droid/pag-chart/blob/main/pag-chart.png?raw=true", "source_blob_sha": "903d835cdb9e62c0f7de1f23d691339e15198607"}, {"date": "2026-10-13", "observed_at": null, "value_gold": 3012.65, "shares": null, "leandro_shares": null, "leandro_percent_reported": null, "factories": null, "shareholders": null, "reported_book_value_per_share_gold": null, "status": "confirmed_in_user_report", "source": "Raport graficzny przesłany przez użytkownika 2026-10-29", "source_url": "https://github.com/piotrzdrenka-droid/pag-chart/blob/main/pag-chart.png?raw=true", "source_blob_sha": "903d835cdb9e62c0f7de1f23d691339e15198607"}, {"date": "2026-10-14", "observed_at": null, "value_gold": 3105.8, "shares": null, "leandro_shares": null, "leandro_percent_reported": null, "factories": null, "shareholders": null, "reported_book_value_per_share_gold": null, "status": "confirmed_in_user_report", "source": "Raport graficzny przesłany przez użytkownika 2026-10-29", "source_url": "https://github.com/piotrzdrenka-droid/pag-chart/blob/main/pag-chart.png?raw=true", "source_blob_sha": "903d835cdb9e62c0f7de1f23d691339e15198607"}, {"date": "2026-10-15", "observed_at": null, "value_gold": 3213.64, "shares": null, "leandro_shares": null, "leandro_percent_reported": null, "factories": null, "shareholders": null, "reported_book_value_per_share_gold": null, "status": "confirmed_in_user_report", "source": "Raport graficzny przesłany przez użytkownika 2026-10-29", "source_url": "https://github.com/piotrzdrenka-droid/pag-chart/blob/main/pag-chart.png?raw=true", "source_blob_sha": "903d835cdb9e62c0f7de1f23d691339e15198607"}, {"date": "2026-10-16", "observed_at": null, "value_gold": 3429.56, "shares": null, "leandro_shares": null, "leandro_percent_reported": null, "factories": null, "shareholders": null, "reported_book_value_per_share_gold": null, "status": "confirmed_in_user_report", "source": "Raport graficzny przesłany przez użytkownika 2026-10-29", "source_url": "https://github.com/piotrzdrenka-droid/pag-chart/blob/main/pag-chart.png?raw=true", "source_blob_sha": "903d835cdb9e62c0f7de1f23d691339e15198607"}, {"date": "2026-10-17", "observed_at": null, "value_gold": 3655.91, "shares": null, "leandro_shares": null, "leandro_percent_reported": null, "factories": null, "shareholders": null, "reported_book_value_per_share_gold": null, "status": "confirmed_in_user_report", "source": "Raport graficzny przesłany przez użytkownika 2026-10-29", "source_url": "https://github.com/piotrzdrenka-droid/pag-chart/blob/main/pag-chart.png?raw=true", "source_blob_sha": "903d835cdb9e62c0f7de1f23d691339e15198607"}, {"date": "2026-10-18", "observed_at": null, "value_gold": 3664.35, "shares": null, "leandro_shares": null, "leandro_percent_reported": null, "factories": null, "shareholders": null, "reported_book_value_per_share_gold": null, "status": "confirmed_in_user_report", "source": "Raport graficzny przesłany przez użytkownika 2026-10-29", "source_url": "https://github.com/piotrzdrenka-droid/pag-chart/blob/main/pag-chart.png?raw=true", "source_blob_sha": "903d835cdb9e62c0f7de1f23d691339e15198607"}, {"date": "2026-10-19", "observed_at": null, "value_gold": 3861.08, "shares": null, "leandro_shares": null, "leandro_percent_reported": null, "factories": null, "shareholders": null, "reported_book_value_per_share_gold": null, "status": "confirmed_in_user_report", "source": "Raport graficzny przesłany przez użytkownika 2026-10-29", "source_url": "https://github.com/piotrzdrenka-droid/pag-chart/blob/main/pag-chart.png?raw=true", "source_blob_sha": "903d835cdb9e62c0f7de1f23d691339e15198607"}, {"date": "2026-10-20", "observed_at": null, "value_gold": 4042.24, "shares": null, "leandro_shares": null, "leandro_percent_reported": null, "factories": null, "shareholders": null, "reported_book_value_per_share_gold": null, "status": "confirmed_in_user_report", "source": "Raport graficzny przesłany przez użytkownika 2026-10-29", "source_url": "https://github.com/piotrzdrenka-droid/pag-chart/blob/main/pag-chart.png?raw=true", "source_blob_sha": "903d835cdb9e62c0f7de1f23d691339e15198607"}, {"date": "2026-10-21", "observed_at": null, "value_gold": 4287.3, "shares": null, "leandro_shares": null, "leandro_percent_reported": null, "factories": null, "shareholders": null, "reported_book_value_per_share_gold": null, "status": "confirmed_in_user_report", "source": "Raport graficzny przesłany przez użytkownika 2026-10-29", "source_url": "https://github.com/piotrzdrenka-droid/pag-chart/blob/main/pag-chart.png?raw=true", "source_blob_sha": "903d835cdb9e62c0f7de1f23d691339e15198607"}, {"date": "2026-10-22", "observed_at": null, "value_gold": 4393.91, "shares": 1888, "leandro_shares": null, "leandro_percent_reported": null, "factories": 16, "shareholders": 9, "reported_book_value_per_share_gold": 2.33, "status": "saved_ui_refresh_unverified", "source": "Raport graficzny przesłany przez użytkownika 2026-10-29", "source_url": "https://github.com/piotrzdrenka-droid/pag-chart/blob/main/pag-chart.png?raw=true", "source_blob_sha": "903d835cdb9e62c0f7de1f23d691339e15198607"}, {"date": "2026-10-28", "observed_at": "2026-10-28T18:58:00Z", "value_gold": 4882.46, "shares": 1908, "leandro_shares": 1779, "leandro_percent_reported": 93.24, "factories": 17, "reported_book_value_per_share_gold": 2.56, "source": "Odczyt widocznej strony Vexa bez logowania; czas zapisu pomiaru, nie czas wyceny aktywów", "status": "confirmed"}, {"date": "2026-10-29", "observed_at": "2026-10-29T18:12:54Z", "value_gold": 5005.75, "shares": 1915, "leandro_shares": 1786, "leandro_percent_reported": 93.26, "factories": 17, "shareholders": 9, "reported_book_value_per_share_gold": 2.61, "status": "confirmed", "source": "Odczyt publicznej strony Vexa po wybraniu Odśwież. Serwis potwierdził: Raport został odświeżony. Czas zapisu pomiaru, nie gwarantowany czas wyceny poszczególnych aktywów.", "source_url": "https://vexa.e-sim.org/stockCompany.html?id=45", "report_refresh_confirmed": true}, {"date": "2026-10-30", "observed_at": "2026-10-30T19:01:41Z", "value_gold": 5135.62, "shares": 2000, "leandro_shares": 1811, "leandro_percent_reported": 90.55, "factories": 17, "shareholders": 10, "reported_book_value_per_share_gold": 2.57, "status": "confirmed", "source": "Odczyt widocznej strony Vexa. Nie wywołano odświeżenia raportu; czas odczytu nie potwierdza czasu wyceny aktywów.", "source_url": "https://vexa.e-sim.org/stockCompany.html?id=45", "report_refresh_confirmed": false}, {"date": "2026-10-31", "observed_at": "2026-10-31T17:06:35Z", "value_gold": 5571.68, "shares": 2089, "leandro_shares": 1860, "leandro_percent_reported": 89.04, "factories": 18, "shareholders": 11, "reported_book_value_per_share_gold": 2.67, "status": "confirmed", "source": "Odczyt widocznej strony Vexa; czas odczytu nie potwierdza czasu wyceny aktywów.", "source_url": "https://vexa.e-sim.org/stockCompany.html?id=45", "report_refresh_confirmed": false}], "events": [{"date": "2026-10-13", "type": "dividend", "amount_gold": 200, "source": "Raport graficzny użytkownika", "notes": "Wypłata według raportu. Nie doliczono do wartości aktywów."}]};
 const root=document.getElementById('pag-growth'),select=root.querySelector('select'),box=root.querySelector('#pag-plot');
 const data=history.observations.map(d=>({...d,x:new Date(d.date+'T12:00:00Z'),ownership:d.leandro_shares!=null&&d.shares>0?100*d.leandro_shares/d.shares:null,perShare:d.value_gold!=null&&d.shares>0?d.value_gold/d.shares:null}));
 const metrics={value_gold:['Wartość spółki','Gold',2],shares:['Wyemitowane akcje','akcje',0],leandro_shares:['Akcje Leandro Daniels','akcje',0],ownership:['Udział Leandro','%',2],perShare:['Wartość aktywów na akcję','Gold/akcję',4],factories:['Fabryki','fabryki',0]};

diff --git a/build.py b/build.py
@@ -69,7 +69,7 @@ for i,d in enumerate(rows):
     label_font=font(24,True)
     width=draw.textbbox((0,0),label,font=label_font)[2]
     lx=min(max(px,left+width/2+2),right-width/2-2)
-    options=[-30,32,-62,64,-94,96] if i%2==0 else [32,-30,64,-62,96,-94]
+    options=[sign*offset for offset in range(30,285,32) for sign in ((-1,1) if i%2==0 else (1,-1))]
     for offset in options:
         ly=py+offset
         rect=(lx-width/2-5,ly-16,lx+width/2+5,ly+16)

diff --git a/README.md b/README.md
@@ -4,9 +4,9 @@
 
 [Wersja interaktywna — pobierz plik i otwórz w przeglądarce](pag-chart.html) · [Historia pomiarów](history.json) · [Spółka w Vexa](https://vexa.e-sim.org/stockCompany.html?id=45)
 
-Ostatni zachowany odczyt: **30 października 2026, 20:01 czasu polskiego** — **5135,62 Gold**, 2000 akcji, 17 fabryk i 10 udziałowców. Leandro Daniels: 1811 akcji, czyli 90,55%. Wartość aktywów na akcję: 2,5678 Gold (w Vexa: 2,57 Gold). Od 29 października: +129,87 Gold (+2,59%); +85 akcji ogółem, +25 akcji Leandro. Raportu nie odświeżano podczas odczytu.
+Ostatni zachowany odczyt: **31 października 2026, 18:06 czasu polskiego** — **5571,68 Gold**, 2089 akcji, 18 fabryk i 11 udziałowców. Leandro Daniels: 1860 akcji, czyli 89,04%. Wartość aktywów na akcję: 2,6672 Gold (w Vexa: 2,67 Gold). Od 30 października: +436,06 Gold (+8,49%); +89 akcji ogółem, +49 akcji Leandro i +1 fabryka. Raportu nie odświeżano podczas odczytu.
 
-Historia zawiera 17 zapisów od 9 do 30 października. Zmiana wartości od 9 października: +2 522,40 Gold (+96,52%); od 11 października: +2 316,07 Gold (+82,14%). Wycena obejmuje przepływy kapitału i zmiany cen aktywów; nie jest zyskiem ani stopą zwrotu akcjonariusza. Wartość aktywów na akcję nie jest ceną transakcyjną.
+Historia zawiera 18 zapisów od 9 do 31 października. Zmiana wartości od 9 października: +2 958,46 Gold (+113,21%); od 11 października: +2 752,13 Gold (+97,61%). Wycena obejmuje przepływy kapitału i zmiany cen aktywów; nie jest zyskiem ani stopą zwrotu akcjonariusza. Wartość aktywów na akcję nie jest ceną transakcyjną.
 
 ## Źródła i statusy
 
